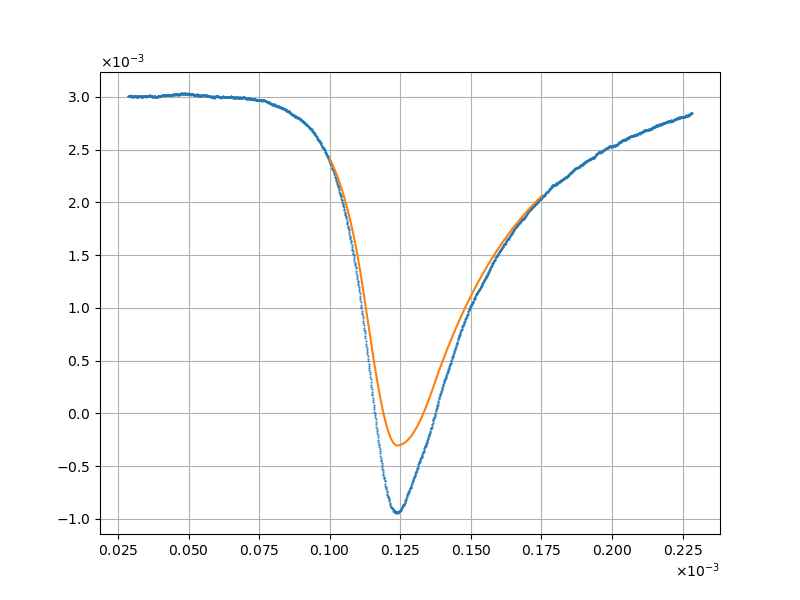
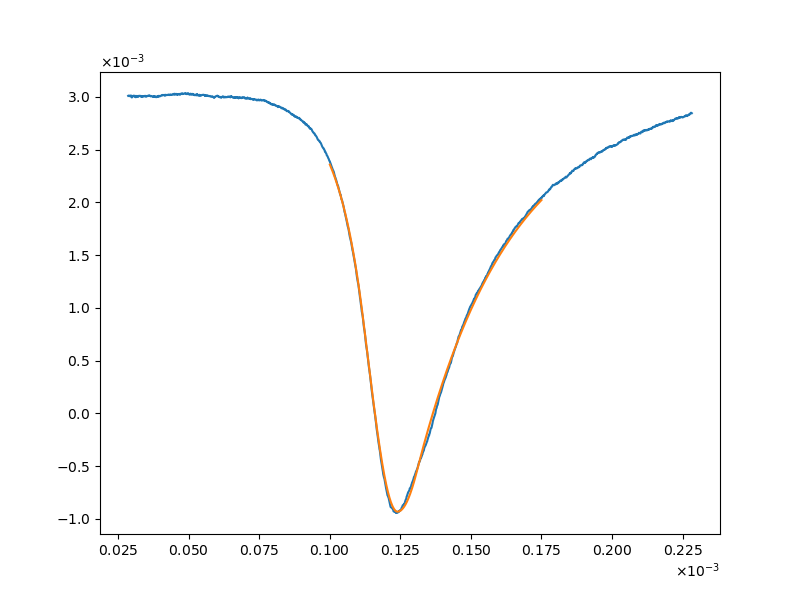
crystal ball individual parameter

diff --git a/crystal_ball.py b/crystal_ball.py
@@ -10,10 +10,11 @@ import time
 
 argvs = sys.argv
 
-f_file = 120
-l_file = 129
+f_file = 130
+l_file = 139
 
-dir_path = "./peak/120-129/crystal_ball/"
+#dir_path = "./peak/120-129/crystal_ball/"
+dir_path = "./peak/130-139/crystal_ball/"
 
 
 def CrystalBall(x, x0, sigma_left, alpha_left, n_left, 
@@ -58,8 +59,9 @@ for i in range(Nshift):
   df_af = pd.read_csv(file_path[2*i+1], names = ["time", "signal", "sync"], skiprows=2, skipfooter=1, engine="python")
 
   print("start fitting")
-  par, cov = curve_fit(crystal_ball, df_bf.time, df_bf.signal, p0 = (1.24e-04, 1.08390763e-05, 1.12849285e+00, 9.04483335e+01, 2.08097853e-05, 6.07396123e-01, 1.31912331e+02, 2.96644947e-03, 3.20672825e-03))
-  x = np.linspace(0.1*10**(-3), 0.175*10**(-3), 1000)
+  par, cov = curve_fit(crystal_ball, df_bf.time, df_bf.signal, p0 = (-1.24e-04, 1.08390763e-05, 1.12849285e+00, 9.04483335e+01, 2.08097853e-05, 6.07396123e-01, 1.31912331e+02, 2.96644947e-03, 3.20672825e-03))
+  #x = np.linspace(0.1*10**(-3), 0.175*10**(-3), 1000) #120-129
+  x = np.linspace(-0.15*10**(-3), -0.1*10**(-3), 1000) #130-139
   y = crystal_ball(x, par[0], par[1], par[2], par[3], par[4], par[5], par[6], par[7], par[8])
 
   t_bf = par[0]
@@ -79,8 +81,9 @@ for i in range(Nshift):
   plt.savefig(dir_path + str(2*i) + ".png")
   print("fig saved")
 
-  par, cov = curve_fit(crystal_ball, df_af.time, df_af.signal, p0 = (1.25e-04, 1.08390763e-05, 1.12849285e+00, 9.04483335e+01, 2.08097853e-05, 6.07396123e-01, 1.31912331e+02, 2.96644947e-03, 3.20672825e-03))
-  x = np.linspace(0.1*10**(-3), 0.175*10**(-3), 1000)
+  par, cov = curve_fit(crystal_ball, df_af.time, df_af.signal, p0 = (-1.25e-04, 1.08390763e-05, 1.12849285e+00, 9.04483335e+01, 2.08097853e-05, 6.07396123e-01, 1.31912331e+02, 2.96644947e-03, 3.20672825e-03))
+  #x = np.linspace(0.1*10**(-3), 0.175*10**(-3), 1000) #120-129
+  x = np.linspace(-0.15*10**(-3), -0.1*10**(-3), 1000) #130-139
   y = crystal_ball(x, par[0], par[1], par[2], par[3], par[4], par[5], par[6], par[7], par[8])
 
   t_af = par[0]
